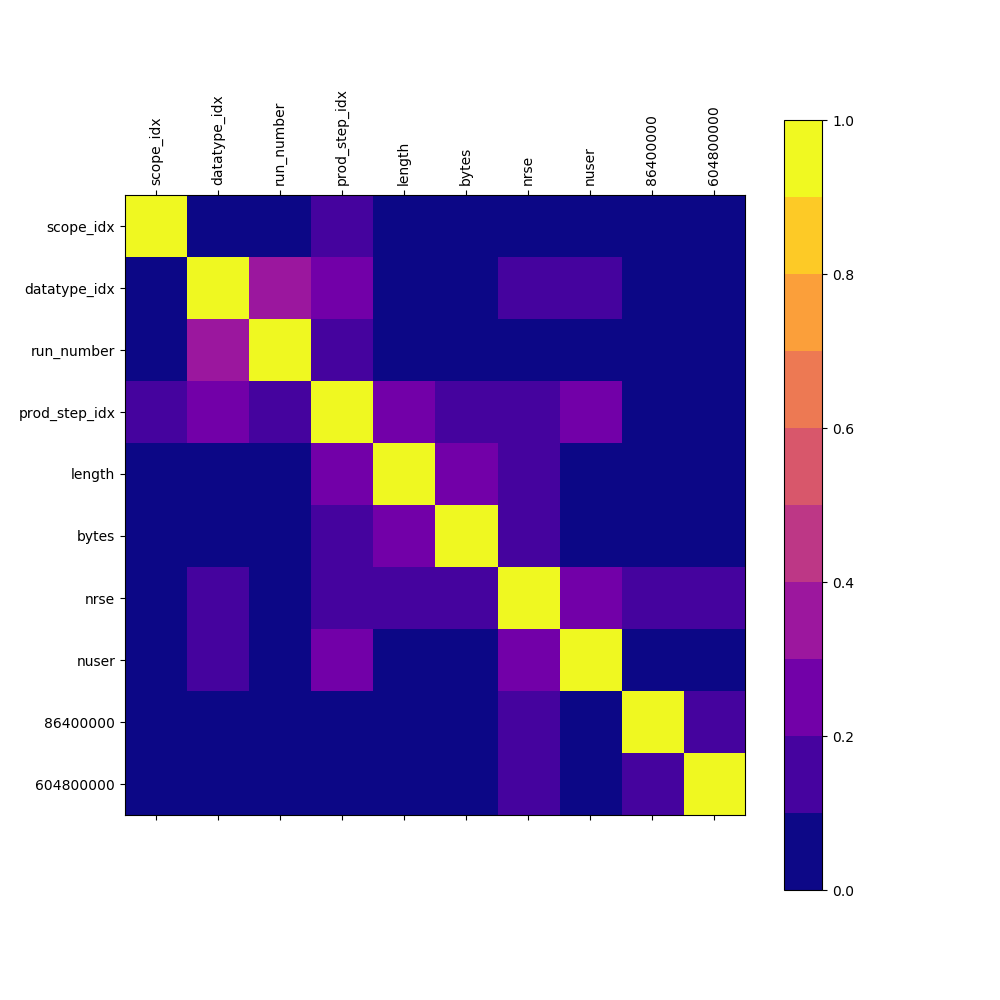
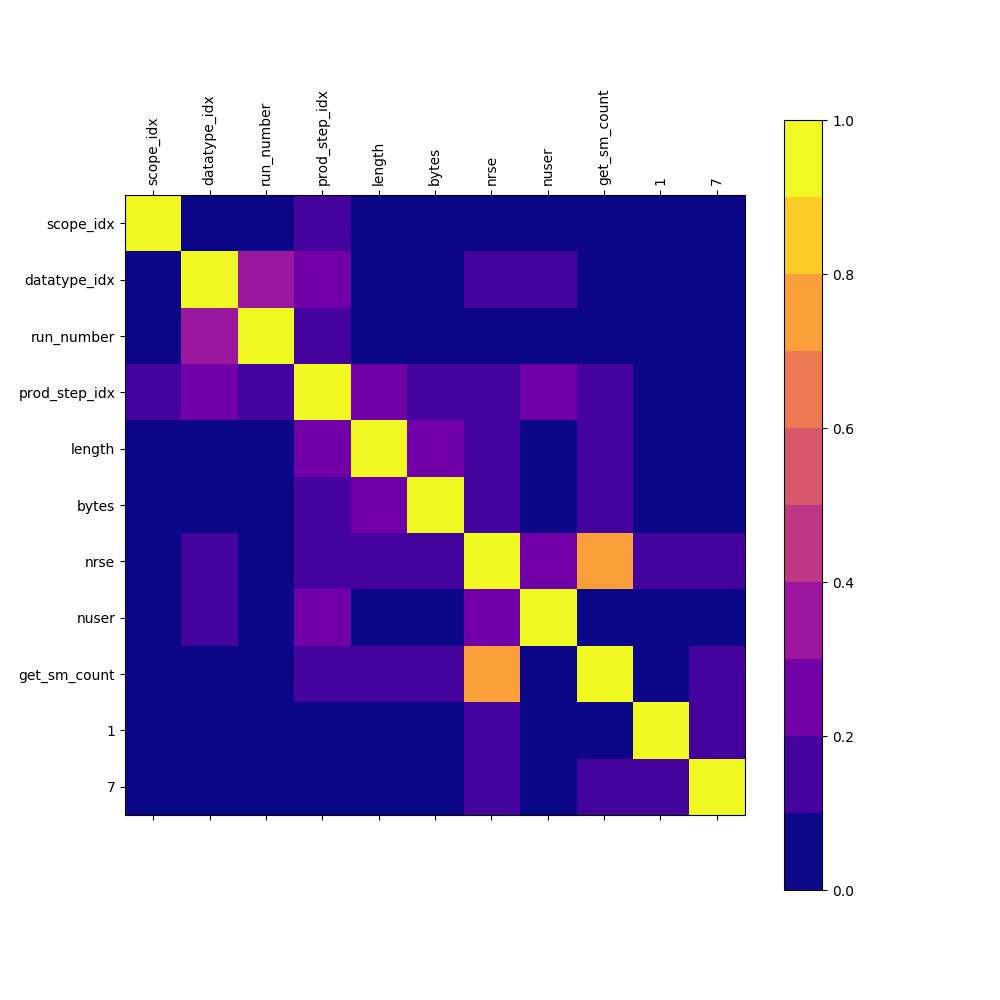
started writing pipeline for ml, and finished labelling

diff --git a/spark/prep.py b/spark/prep.py
@@ -14,43 +14,57 @@ def get_spark():
 		.set("spark.authenticate.secret","thisisasecret"))	
 	return SparkContext(conf=conf)
 
-#initialise spark and inlude other python files
-sc = get_spark()
-sc.addPyFile("udf_namefilter.py")
-sc.addPyFile("load_func.py")
-sc.addPyFile("corr.py")
-from load_func import readIn, convDf
-from corr import corr_pd, corr_pys, plot
-#from udf_namefilter import isRobot, getUser
-sqlContext = SQLContext(sc)
-
-#read in full file
-lines = sc.textFile("/user/lspiedel/rucio_expanded_2017/2017-01-01*")
-traces = readIn(lines, '\t')
-df = sqlContext.createDataFrame(traces)
-df_conv = convDf(df)
-group = ["name", "scope_idx", "project_idx", "datatype_idx", "run_number", "stream_name_idx", "prod_step_idx", "length", "bytes"]
-
 #function take a value, x, and a column 
 #returns the sum of the values in the column where the dif is less than x
 def make_col(x,col):
    cnd = F.when(F.col("diff") < x, F.col(col)).otherwise(0)
-   return F.sum(cnd).alias(str(x))
+   return F.sum(cnd).alias(str(x/86400000))
 
 #prepare by grouping by dataset and finding wanted stats
 def prep(df):
-    e_ops = [make_col(x, "ops") for x in [86400000, 604800000, 2629746000]]
+    e_ops = [make_col(x, "ops") for x in [86400000, 604800000]]
+    count_cnd = lambda cond: F.sum(F.when(cond, 1).otherwise(0)) 
+    group = ["name", "scope_idx", "datatype_idx", "run_number", "prod_step_idx", "version_idx"]# "bytes", "length"]
 
+    #for some reason bytes and length aren't dataset specific, so I've just taken the max here
     df_byname = df.groupBy(group).agg(
+        F.max("bytes").alias("bytes"),
+        F.max("length").alias("length"),
         F.countDistinct("rse_idx").alias("nrse"), 
         F.countDistinct("user_idx").alias("nuser"),
+        count_cnd(F.col("eventtype") == "get_sm").alias("get_sm_count"),
         *e_ops
         )
     return df_byname
+   
 
-df_byname = prep(df_conv).drop("name")
-#df_byname.printSchema()
-print corr_pd(df_byname)
-print corr_pys(df_byname)
-#plot(corr, df_byname.schema.names)
-sc.stop()
+if __name__ == "__main__":
+    #initialise spark and inlude other python files
+    sc = get_spark()
+    sc.addPyFile("udf_namefilter.py")
+    sc.addPyFile("load_func.py")
+    sc.addPyFile("corr.py")
+    from load_func import readIn, convDf
+    from corr import corr_pd, corr_pys, plot
+    #from udf_namefilter import isRobot, getUser
+    sqlContext = SQLContext(sc)
+    
+    #read in full file
+    lines = sc.textFile("/user/lspiedel/rucio_expanded_2017/2017-01-*")
+    traces = readIn(lines, '\t')
+    df = sqlContext.createDataFrame(traces)
+    df_conv = convDf(df)
+ 
+    df_byname = prep(df_conv)
+    print "Grouped by name: ",
+    print df_byname.groupBy("name").count().count()
+    print 
+    df_byname = df_byname.drop("name")
+    df_byname.show()
+    print df_byname.count()
+   
+    #corr = corr_pd(df_byname)
+    
+    #plot(corr, df_byname.schema.names, "temp")
+    #plot(corr, df_byname.schema.names)
+    sc.stop()

diff --git a/spark/pipe.py b/spark/pipe.py
@@ -1,12 +1,9 @@
 import pyspark.sql.functions as F
 from pyspark import SparkContext, SparkConf
 from pyspark.sql import SQLContext, Row
-from pyspark.sql.types import BooleanType
-import matplotlib.pyplot as plt
-import pandas as pd
 import pyspark.ml as ml
 import pyspark.ml.feature as mlf
-
+from pyspark.ml.classification import DecisionTreeClassifier
 #function to start spark instance
 def get_spark():
     conf = (SparkConf()
@@ -18,25 +15,43 @@ def get_spark():
 sc = get_spark()
 sc.addPyFile("udf_namefilter.py")
 sc.addPyFile("load_func.py")
+sc.addPyFile("prep.py")
+sc.addPyFile("labels.py")
 from load_func import readIn, convDf
+from prep import prep
+from labels import get_labels
 #from udf_namefilter import isRobot, getUser
 sqlContext = SQLContext(sc)
 
 #read in full file
-lines = sc.textFile("/user/lspiedel/rucio_expanded_2017/2017-01-01*")
-traces = readIn(lines, '\t')
-df = sqlContext.createDataFrame(traces)
-df_conv = convDf(df)
+lines01 = sc.textFile("/user/lspiedel/rucio_expanded_2017/2017-01-*")
+lines02 = sc.textFile("/user/lspiedel/rucio_expanded_2017/2017-02-*")
 
+traces01 = readIn(lines01, '\t')
+traces02 = readIn(lines02, '\t')
 
+df01 = sqlContext.createDataFrame(traces01)
+df02 = sqlContext.createDataFrame(traces02)
 
+df_conv01 = convDf(df01)
+df_conv02 = convDf(df01)
 
+df_prepped01 = prep(df_conv01)
+df_prepped02 = prep(df_conv02)
 
-indexers = [ mlf.StringIndexer(inputCol=c, outputCol="{0}_idx".format(c)) for c in cols ]
+#need some function to apply labels
+df_labeled = get_labels(df_prepped01, df_prepped02).drop("name")
+df_labaled = df_labeled.na.drop() 
+cols_for_ml = df_prepped01.drop("name").schema.names
 
-#df_indexed.show()
-#pipeline = ml.Pipeline(stages=indexers)
+toVec = mlf.VectorAssembler(inputCols=cols_for_ml, outputCol="Features")
+vecIndexer = mlf.VectorIndexer(inputCol='Features', outputCol="Features_idx")
+classifier = DecisionTreeClassifier(labelCol="Label", featuresCol="Features_idx")
 
-#df_pip = pipeline.fit(df_filter)
-#df_fin = df_pip.transform(df_filter)
+#pipeline = ml.Pipeline(stages=[toVec, vecIndexer, classifier])
 
+train, test = df_labeled.randomSplit([0.9, 0.1], seed=12345)
+toVec.transform(train).show()
+
+#df_pip = pipeline.fit(train.na.drop())
+#df_fin = df_pip.transform(test).show()

diff --git a/spark/downloading_analysis.py b/spark/downloading_analysis.py
@@ -1,9 +1,8 @@
 import pyspark.sql.functions as F
-#from python_project.spark import get_spark
 from pyspark import SparkContext, SparkConf 
 from pyspark.sql import SQLContext 
 import matplotlib.pyplot as plt
-import pandas as pd
+
 
 def get_spark(): 
 	conf = (SparkConf()
@@ -11,7 +10,8 @@ def get_spark():
 		.set("spark.authenticate.secret","thisisasecret"))	
 	return SparkContext(conf=conf)
 
-
+######################################################################
+#File to analyse distribution of downloads and plot it using matplotlib
 sc = get_spark()
 
 sqlContext = SQLContext(sc)
@@ -37,10 +37,10 @@ df_counts_ordered.show(20)
 #output
 df_counts_pd = df_counts_ordered.toPandas()
 
-
+#plot result
 fig = plt.figure()
 plt.yscale('log')
 plt.xscale('log')
 df_counts_pd.plot(x="Number of file downloads", y="count")
-#plt.plot(df_counts_pd["Number of file downloads"], df_counts_pd["count"], 'o')
-#plt.show()
+plt.plot(df_counts_pd["Number of file downloads"], df_counts_pd["count"], 'o')
+plt.show()

diff --git a/spark/corr.py b/spark/corr.py
@@ -3,6 +3,8 @@ from matplotlib import colors
 import pandas as pd
 import numpy as np
 import pyspark.mllib.stat as stat
+#######################################################################
+#correlation functions
 
 #find correlations using pandas
 def corr_pd(df):
@@ -17,7 +19,7 @@ def corr_pys(df):
     corr = stat.Statistics.corr(features, method='pearson')
     return corr
 
-
+#plot correlation matrix
 def plot(df, df_names, filename):
     #set plot size
     fig, ax = plt.subplots(figsize=(10,10)) 
@@ -34,6 +36,10 @@ def plot(df, df_names, filename):
     #colorbar
     cbar = fig.colorbar(plot)
     
+    for (i, j), z in np.ndenumerate(np.absolute(df)):
+        ax.text(j, i, '{:0.2f}'.format(z), ha='center', va='center',
+            bbox=dict(boxstyle='round', facecolor='white', edgecolor='0.3'))
+
     filepath = "./corr_img/" + filename
     fig.savefig(filepath)
     plt.show()

diff --git a/spark/labels.py b/spark/labels.py
@@ -1,0 +1,19 @@
+import pyspark.sql.functions as F
+from pyspark import SparkContext, SparkConf 
+from pyspark.sql import SQLContext, Row
+from pyspark.sql.types import BooleanType
+import matplotlib.pyplot as plt
+import pandas as pd
+import pyspark.ml as ml
+import pyspark.ml.feature as mlf
+
+#function to apply a label to each row in dataset
+def get_labels(df_current, df_next):
+    
+    #just look at name column from second df
+    df_nameList = df_next.select('name').withColumnRenamed("name", "name_2")
+    #join by name to see which value in df_current are in df_next
+    df_comp = df_current.join(df_nameList, df_current.name == df_nameList.name_2, how='left_outer')
+
+    df_lab = df_comp.withColumn("name_2", F.when(df_comp.name_2.isNotNull(), 1).otherwise(0).alias("Label"))
+    return df_lab

diff --git a/spark/load_func.py b/spark/load_func.py
@@ -55,7 +55,7 @@ def convDf(df):
         df_user = typeConv(df_user, longcol, "long")
     df_indexed = df_user
     #index strings
-    cols = ['user', 'scope', 'project', 'datatype', 'stream_name', 'prod_step', 'version', 'eventtype', 'rse']
+    cols = ['user', 'scope', 'project', 'datatype', 'stream_name', 'prod_step', 'version', 'rse', 'eventtype']
     for col in cols:
         df_indexed = to_index(df_indexed, col)
     #convert timestamp to long and find time difference as diff

diff --git a/spark/read.py b/spark/read.py
@@ -32,7 +32,7 @@ df = sqlContext.createDataFrame(traces)
 df_conv = convDf(df).drop("name")
 df_filter = df_conv.na.drop()
 corr = corr_pys(df_filter)
-plot(corr, df_conv.schema.names, "temp.png")
+plot(corr, df_conv.schema.names, "2017-lab.png")
 
 #ops_list = ["ops", "file_ops", "distinct_file", "panda_jobs"]
 #corr = corr_pys(df_filter[ops_list])
